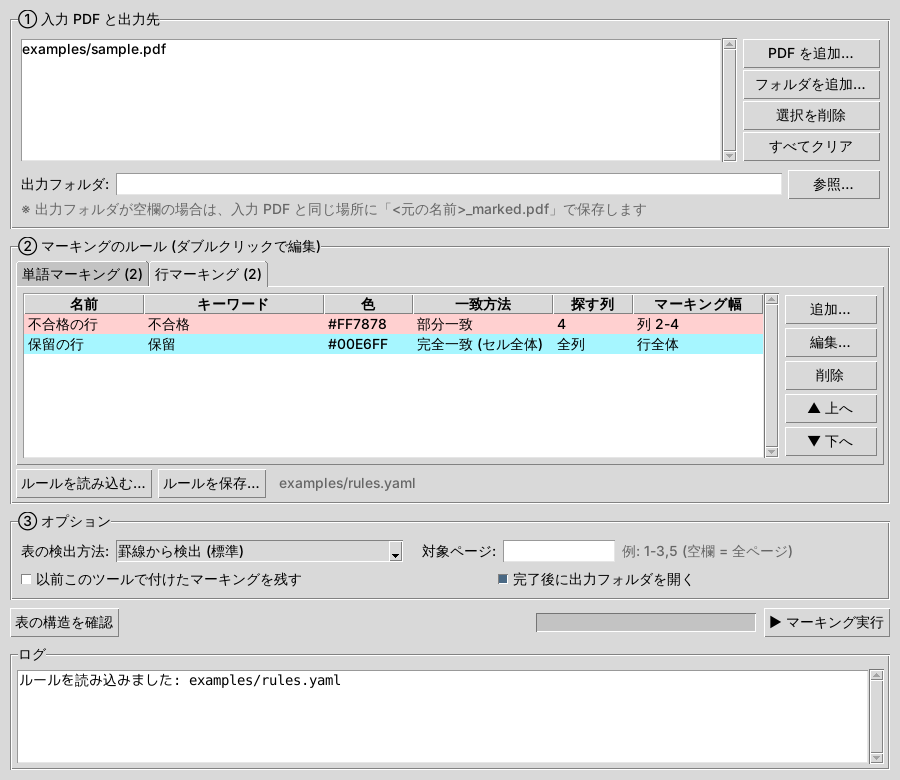
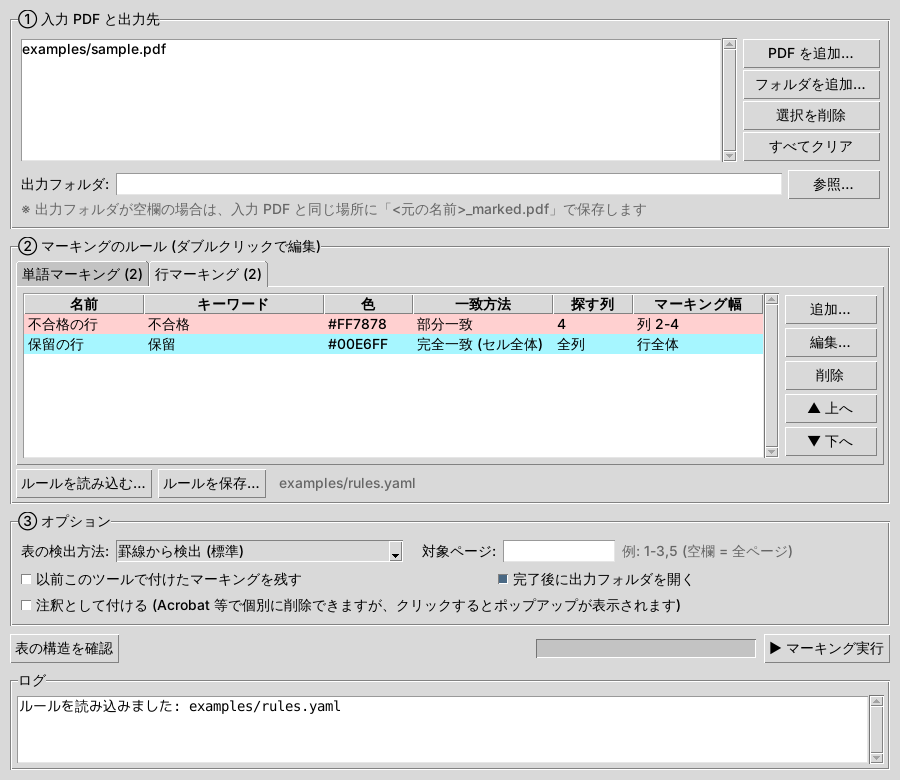
Flatten marks into the page so no popups appear
- Marks are now baked into page content by default; only this tool's
  annotations are flattened, existing comments/forms are kept
- --as-annotations (CLI) / GUI checkbox keeps the old annotation output
- Warn when re-running on an already flattened output
- Tests and docs updated

Claude-Session: https://claude.ai/code/session_01JUKAyA7pw1QPr89y3NZvJU

Changed region(s): [[0.0, 0.7692, 0.9956, 0.9231]]

diff --git a/pdf_auto_marker/marker.py b/pdf_auto_marker/marker.py
@@ -203,6 +203,7 @@ class MarkResult:
     hits: list[Hit] = field(default_factory=list)
     tables_found: int = 0
     pages_processed: int = 0
+    already_flattened: bool = False  # 入力が既にこのツールで焼き込み済みだった
 
     def count_by_rule(self) -> dict[str, int]:
         counts: dict[str, int] = {}
@@ -356,16 +357,80 @@ def mark_document(doc: pymupdf.Document, config: Config, pages: Optional[str] = 
     return result
 
 
+# 焼き込み済みの PDF であることを示すカタログのキー (再実行時の重ね塗り警告用)
+_FLATTENED_KEY = "PdfAutoMarkerFlattened"
+
+
+def _annots_refs(doc: pymupdf.Document, page: pymupdf.Page) -> list[int]:
+    """ページの /Annots 配列に含まれる注釈の xref を返す。"""
+    kind, value = doc.xref_get_key(page.xref, "Annots")
+    if kind == "xref":  # 間接参照の配列
+        value = doc.xref_object(int(value.split()[0]), compressed=True)
+    elif kind != "array":
+        return []
+    return [int(x) for x in re.findall(r"(\d+)\s+0\s+R", value)]
+
+
+def _set_annots(doc: pymupdf.Document, page: pymupdf.Page, xrefs: list[int]) -> None:
+    if xrefs:
+        doc.xref_set_key(page.xref, "Annots", "[" + " ".join(f"{x} 0 R" for x in xrefs) + "]")
+    else:
+        doc.xref_set_key(page.xref, "Annots", "null")
+
+
+def flatten_marks(doc: pymupdf.Document) -> None:
+    """このツールが付けた注釈だけをページ本文に焼き込む。
+
+    焼き込んだマーキングは通常の図形になるため、クリックやマウスオーバーで
+    ポップアップ (コメント) が表示されなくなる。元々 PDF にあった注釈やフォームはそのまま残す。
+    """
+    others: dict[int, list[int]] = {}
+    for page in doc:
+        refs = _annots_refs(doc, page)
+        if not refs:
+            continue
+        ours = {a.xref for a in page.annots() if a.info.get("title") == ANNOT_TITLE}
+        if not ours:
+            continue
+        # 一時的に自分の注釈だけを残して焼き込み、その後ほかの注釈を戻す
+        others[page.number] = [x for x in refs if x not in ours]
+        _set_annots(doc, page, [x for x in refs if x in ours])
+    if not others:
+        return
+    for page in doc:
+        if page.number not in others:
+            # 対象外のページの注釈は焼き込まないよう一時的に外す
+            refs = _annots_refs(doc, page)
+            if refs:
+                others[page.number] = refs
+                _set_annots(doc, page, [])
+    doc.bake(annots=True, widgets=False)
+    for pno, refs in others.items():
+        page = doc[pno]
+        _set_annots(doc, page, _annots_refs(doc, page) + refs)
+    doc.xref_set_key(doc.pdf_catalog(), _FLATTENED_KEY, "true")
+
+
 def mark_pdf(input_path: Union[str, Path], output_path: Union[str, Path], config: Config,
-             pages: Optional[str] = None, clear_previous: bool = True) -> MarkResult:
-    """PDF ファイルを読み込み、マーキングして別ファイルに保存する。"""
+             pages: Optional[str] = None, clear_previous: bool = True,
+             flatten: bool = True) -> MarkResult:
+    """PDF ファイルを読み込み、マーキングして別ファイルに保存する。
+
+    flatten=True (既定) の場合、マーキングをページに焼き込み、ポップアップが出ないようにする。
+    flatten=False の場合は PDF の注釈として残す (Acrobat 等で個別に削除できるが、
+    クリックするとコメントのポップアップが表示される)。
+    """
     input_path, output_path = Path(input_path), Path(output_path)
     if input_path.resolve() == output_path.resolve():
         raise ValueError("入力ファイルと出力ファイルが同じです。別のパスを指定してください")
     with pymupdf.open(input_path) as doc:
         if doc.needs_pass:
             raise ValueError(f"パスワード付き PDF は未対応です: {input_path}")
+        already = doc.xref_get_key(doc.pdf_catalog(), _FLATTENED_KEY)[1] == "true"
         result = mark_document(doc, config, pages=pages, clear_previous=clear_previous)
+        result.already_flattened = already
+        if flatten:
+            flatten_marks(doc)
         output_path.parent.mkdir(parents=True, exist_ok=True)
         doc.save(output_path, garbage=3, deflate=True)
     return result

diff --git a/tests/test_marker.py b/tests/test_marker.py
@@ -23,7 +23,8 @@ def sample_pdf(tmp_path_factory):
 
 def _run(sample_pdf, tmp_path, cfg_dict):
     out = tmp_path / "out.pdf"
-    result = mark_pdf(sample_pdf, out, load_config(cfg_dict))
+    # 注釈の位置を検証するため、焼き込みせず注釈のまま出力する
+    result = mark_pdf(sample_pdf, out, load_config(cfg_dict), flatten=False)
     return result, out
 
 
@@ -110,11 +111,40 @@ def test_rerun_replaces_previous_marks(sample_pdf, tmp_path):
     cfg = {"word_rules": [{"words": ["要確認"], "color": "yellow"}]}
     _, out1 = _run(sample_pdf, tmp_path, cfg)
     out2 = tmp_path / "out2.pdf"
-    mark_pdf(out1, out2, load_config(cfg))
+    mark_pdf(out1, out2, load_config(cfg), flatten=False)
     annots = _annots(out2)
     assert len(annots) == 2
     with pymupdf.open(out2) as doc:
         assert all(a.info["title"] == ANNOT_TITLE for a in doc[0].annots())
+
+
+def test_flatten_default_removes_popups_and_keeps_user_annots(sample_pdf, tmp_path):
+    src = tmp_path / "with_note.pdf"
+    with pymupdf.open(sample_pdf) as doc:
+        note = doc[0].add_text_annot((40, 40), "user note")
+        note.set_info(title="someone")
+        note.update()
+        doc.save(src)
+    cfg = load_config({"word_rules": [{"words": ["要確認"], "color": "yellow"}],
+                       "row_rules": [{"keywords": "不合格", "color": "red"}]})
+    out = tmp_path / "flat.pdf"
+    result = mark_pdf(src, out, cfg)
+    assert len(result.hits) == 4 and not result.already_flattened
+    with pymupdf.open(out) as doc:
+        # 自分のマーキングは注釈として残らない (= ポップアップが出ない)。元の注釈は残る
+        assert [a.info["title"] for a in doc[0].annots()] == ["someone"]
+        # 焼き込んだ色がページに描画されている (「要確認」の位置が黄色系)
+        hit = next(h for h in result.hits if h.kind == "word")
+        assert hit.text == "要確認"
+        words = doc[0].search_for("要確認")
+        pix = doc[0].get_pixmap(clip=words[1], dpi=72)  # 2 件目は赤い行の外
+        yellow = [(x, y) for x in range(pix.width) for y in range(pix.height)
+                  if (lambda r, g, b: r > 200 and g > 200 and b < 200)(*pix.pixel(x, y))]
+        assert len(yellow) > pix.width * pix.height * 0.3
+
+    # 焼き込み済みの PDF に再実行すると検出できる
+    result = mark_pdf(out, tmp_path / "again.pdf", cfg)
+    assert result.already_flattened
 
 
 def test_rotated_page(sample_pdf, tmp_path):

diff --git a/pdf_auto_marker/gui.py b/pdf_auto_marker/gui.py
@@ -539,6 +539,10 @@ class App(ttk.Frame):
         self.open_var = tk.BooleanVar(value=True)
         ttk.Checkbutton(frame, text="完了後に出力フォルダを開く",
                         variable=self.open_var).grid(row=1, column=3, columnspan=2, sticky="w", pady=(6, 0))
+        self.annot_var = tk.BooleanVar(value=False)
+        ttk.Checkbutton(frame, text="注釈として付ける (Acrobat 等で個別に削除できますが、"
+                                    "クリックするとポップアップが表示されます)",
+                        variable=self.annot_var).grid(row=2, column=0, columnspan=5, sticky="w", pady=(4, 0))
 
     def _build_actions(self):
         frame = ttk.Frame(self)
@@ -704,6 +708,7 @@ class App(ttk.Frame):
             return
         pages = self.pages_var.get().strip() or None
         keep = self.keep_var.get()
+        flatten = not self.annot_var.get()
         jobs = self.build_jobs()
         self.progress.configure(maximum=len(jobs), value=0)
         self.log(f"--- マーキング開始 ({len(jobs)} ファイル) ---")
@@ -712,7 +717,8 @@ class App(ttk.Frame):
             total, failed = 0, 0
             for n, (src, dst) in enumerate(jobs, 1):
                 try:
-                    result = mark_pdf(src, dst, config, pages=pages, clear_previous=not keep)
+                    result = mark_pdf(src, dst, config, pages=pages, clear_previous=not keep,
+                                      flatten=flatten)
                 except Exception as e:  # 1 ファイルの失敗で全体を止めない
                     failed += 1
                     self.msg_queue.put(("log", f"✕ {src.name}: {e}"))
@@ -723,6 +729,9 @@ class App(ttk.Frame):
                     if result.tables_found == 0:
                         self.msg_queue.put(("log", "    注意: 表が検出されませんでした。"
                                                    "罫線のない表は「文字の並びから検出」を試してください"))
+                    if result.already_flattened:
+                        self.msg_queue.put(("log", "    注意: 既にマーキング済みの PDF のため、マーキングが重なっています。"
+                                                   "元の PDF から実行し直してください"))
                 self.msg_queue.put(("progress", n))
             self.last_output_dir = jobs[-1][1].parent
             return total, failed, len(jobs)

diff --git a/pdf_auto_marker/cli.py b/pdf_auto_marker/cli.py
@@ -46,7 +46,10 @@ def build_parser() -> argparse.ArgumentParser:
     p.add_argument("--strategy", choices=["lines", "lines_strict", "text"],
                    help="表の検出方法 (--inspect 時、または設定ファイルの指定を上書き)")
     p.add_argument("--keep-previous", action="store_true",
-                   help="以前このツールで付けたマーキングを削除せずに残す")
+                   help="以前このツールで付けたマーキングを削除せずに残す (--as-annotations で出力したものが対象)")
+    p.add_argument("--as-annotations", action="store_true",
+                   help="マーキングを PDF の注釈として付ける (Acrobat 等で個別に削除できるが、"
+                        "クリックするとポップアップが表示される)。既定はページに焼き込み、ポップアップは出ない")
     p.add_argument("-v", "--verbose", action="store_true", help="マーキング箇所を 1 件ずつ表示する")
     return p
 
@@ -82,7 +85,8 @@ def main(argv: list[str] | None = None) -> int:
         for src in inputs:
             dst = _output_for(src, args.output, multiple)
             result = mark_pdf(src, dst, config, pages=args.pages,
-                              clear_previous=not args.keep_previous)
+                              clear_previous=not args.keep_previous,
+                              flatten=not args.as_annotations)
             print(f"{src} -> {dst}")
             print(f"  処理ページ: {result.pages_processed}, 検出した表: {result.tables_found}, "
                   f"マーキング: {len(result.hits)} 件")
@@ -95,6 +99,9 @@ def main(argv: list[str] | None = None) -> int:
                           f"{h.text!r} ({h.rule})")
             if result.tables_found == 0:
                 print("  注意: 表が検出されませんでした。罫線のない表は --strategy text を試してください")
+            if result.already_flattened:
+                print("  注意: 入力 PDF は既にマーキング済み (焼き込み済み) のため、マーキングが重なっています。"
+                      "元の PDF から実行し直してください")
         return 0
     except (ConfigError, FileNotFoundError, ValueError) as e:
         print(f"エラー: {e}", file=sys.stderr)

diff --git a/README.md b/README.md
@@ -12,11 +12,13 @@ PDF 内の **表** を自動で検出し、ルールに従ってマーキング(
 | 1 | 表の中の指定した単語を、任意の色でマーキング | `word_rules` |
 | 2 | 表の行内に特定の文字がある場合、指定した範囲の幅・任意の色でその行をマーキング | `row_rules` |
 
-- マーキングは PDF の **注釈** として付けます。元の本文は変更しないため、Acrobat などで個別に削除・色変更ができます(印刷にも反映されます)。
+- マーキングは **ページに直接焼き込み** ます。クリックやマウスオーバーでコメントのポップアップが出ることはなく、見た目・印刷ともマーキングのみです。
+  - PDF に元々あったコメントやフォームはそのまま残ります。
+  - 必要なら「注釈として付ける」(`--as-annotations`)で、Acrobat などで個別に削除・色変更できる注釈形式にもできます(この場合はクリックでポップアップが表示されます)。
 - 一致方法: 部分一致 / セル全体の完全一致 / 正規表現
 - 全角・半角の揺れ(`ＮＧ` と `NG` など)や英字の大文字・小文字を無視して検索可能
 - 表の外にある文字はマーキングしません
-- 同じ PDF に再実行すると、以前このツールで付けたマーキングを置き換えます(重複しません)
+- マーキングは別ファイル(`<元の名前>_marked.pdf`)に保存し、元の PDF は変更しません。ルールを変えてやり直すときは **元の PDF から** 実行してください(マーキング済みの PDF に再実行すると色が重なるため、その場合はログに注意を表示します)
 - 回転したページ、複数ページ、フォルダ単位の一括処理に対応
 
 ## Windows 版 (インストール不要・単一フォルダ)
@@ -110,7 +112,8 @@ python -m pdf_auto_marker examples/sample.pdf -c examples/rules.yaml -o result.p
 | `-p, --pages` | 対象ページ(例: `1-3,5`) |
 | `--strategy` | 表の検出方法 `lines`(既定)/ `lines_strict` / `text`(罫線のない表) |
 | `--inspect` | マーキングせず、検出した表の行・列を表示 |
-| `--keep-previous` | 以前付けたマーキングを残したまま追加する |
+| `--as-annotations` | マーキングを注釈として付ける(個別に削除できるが、クリックでポップアップが出る) |
+| `--keep-previous` | 注釈形式で付けた以前のマーキングを残したまま追加する |
 | `-v, --verbose` | マーキング箇所を 1 件ずつ表示 |
 
 フォルダ内の PDF を一括処理する例:
